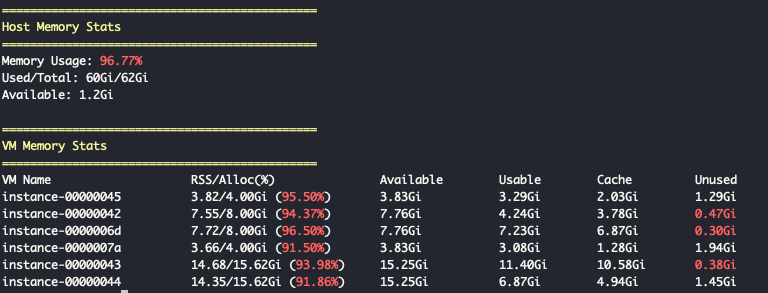
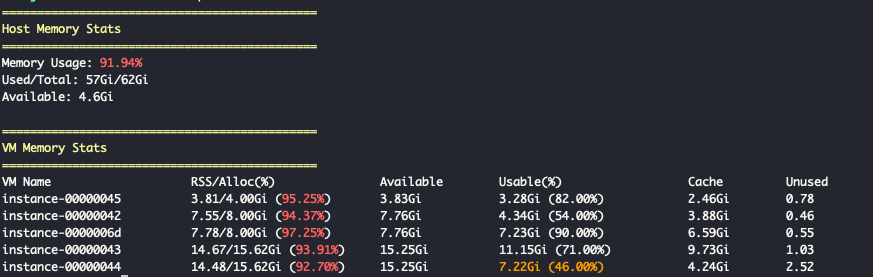
[Feat] Unused color제거, Usable color 추가

diff --git a/docs/metrics.md b/docs/metrics.md
@@ -6,9 +6,9 @@
 | :-------: | :---------: |
 | RSS/Alloc |     ⭕     |
 | Available |     ❌      |
-|  Usable   |     ❌      |
+|  Usable   |     ⭕     |
 |   Cache   |     ❌      |
-|  Unused   |     ⭕     |
+|  Unused   |     ❌      |
 
 > [!NOTE]  
 > 구체적인 지표는 [virtIO Memory Ballooning](https://pmhahn.github.io/virtio-balloon/)를 참고해주세요.
@@ -26,11 +26,10 @@ RSS/Alloc 비율은 할당받은 메모리 양 중 실제 호스트 메모리에
 | 60% ~ 90% |   🟠   |                                           90%에 가까울 수록 예의주시 필요                                            |
 |   ~ 60%   |   🟢   | 할당되고 사용되지 않는 비율이 큰 경우, 큰 변동성이 없고 낮은 비율로 지속적으로 유지된다면 Alloc를 줄이는 방안을 고려 |
 
-#### Unused
+#### Usable
 
-가상머신이 아무 용도로 사용되지 않는 완전히 남아 있는 메모리를 의미합니다. 새로운 작업을 수행할 때 할당하는 여유 메모리입니다.
-Unused
-| **비율** | **색** | **설명** |
-| :-------: | :----: | :------------------------------------------------------------------------------------------------------------------: |
-| 0 ~ 0.5GB | 🔴 | 시스템의 대부분의 메모리가 이미 사용 중이며, 할당 가능한 여유 공간이 적음. OOM(Out of Memory) 위험 존재 |
-| 0.5GB ~ 1GB | 🟠 | 예의주시 필요 |
+| **비율 (usable / alloc)** | **색** |                  **설명**                   |
+| :-----------------------: | :----: | :-----------------------------------------: |
+|         0% ~ 20%          |   🔴   | 시스템 대부분 메모리 사용 중, OOM 위험 있음 |
+|         20% ~ 50%         |   🟠   |          여유 적음, 예의주시 필요           |
+|         50% 이상          |   -    |              충분한 여유 있음               |
